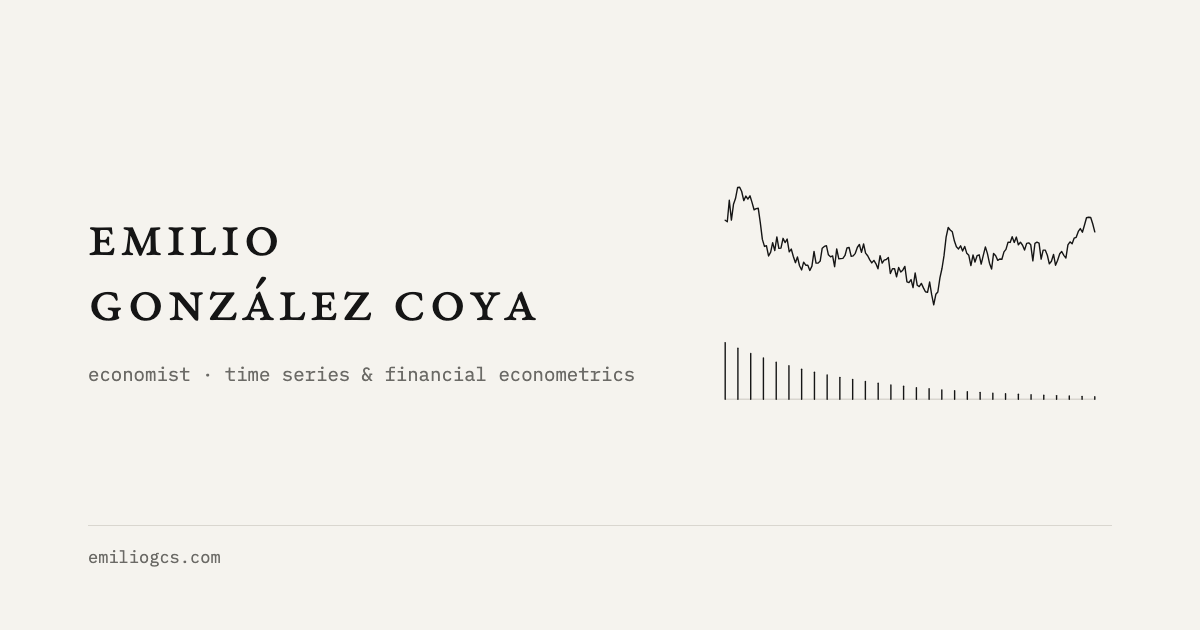
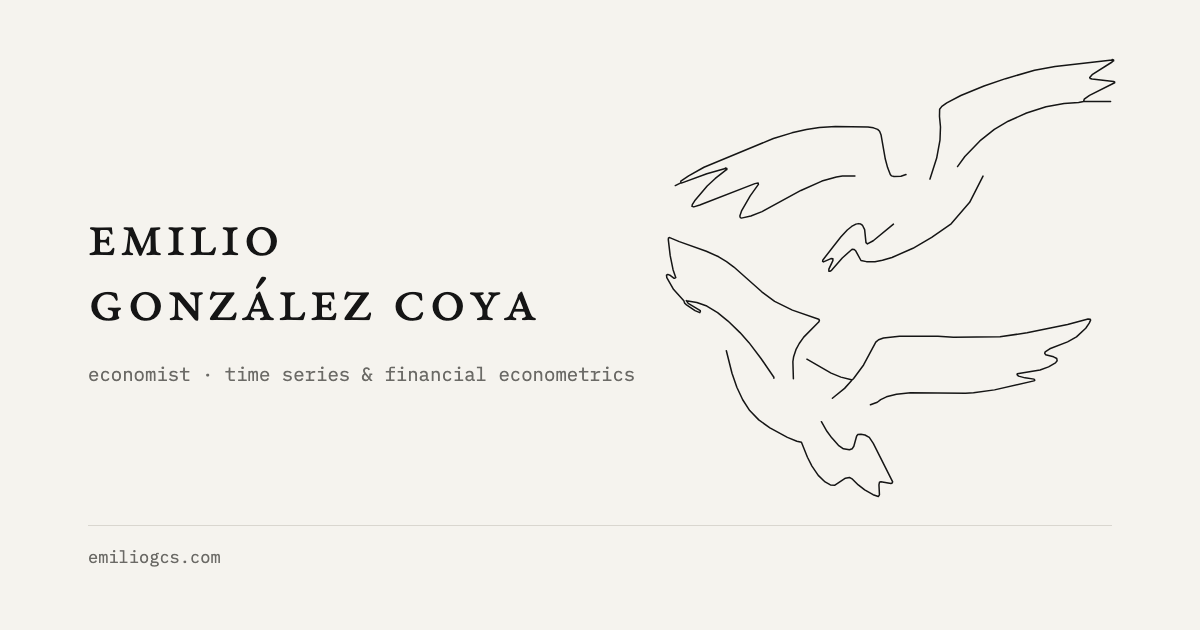
Full name for search; birds in the social image
The page title and search description now carry the full name, Emilio
González Coya Sandoval, and the structured data lists it (with and
without accents, and as González-Coya) as other names for the same
person. The page header stays "Emilio González Coya".

The social preview (og.png) shows the two birds instead of the AR(1)
figure; scripts/birds.py now writes them into scripts/og.html too.

diff --git a/scripts/og.html b/scripts/og.html
@@ -1,6 +1,6 @@
 <!DOCTYPE html>
-<!-- Template for assets/og.png (1200×630). plates.mjs fills the figure;
-     render with:  see README.md, "Social image". -->
+<!-- Template for assets/og.png (1200×630). scripts/birds.py fills in the
+     birds; render with:  see README.md, "Social image". -->
 <html lang="en">
 <head>
   <meta charset="utf-8">
@@ -19,10 +19,9 @@
     .role { margin: 28px 0 0; white-space: nowrap; font: 19px/1.5 "IBM Plex Mono", monospace; color: #6B6A66; }
     .url { position: absolute; left: 88px; bottom: 64px; margin: 0; font: 17px/1 "IBM Plex Mono", monospace; color: #6B6A66; }
     .rule { position: absolute; left: 88px; right: 88px; bottom: 104px; border-top: 1px solid #D9D6CF; }
-    .fig { position: absolute; right: 80px; top: 162px; width: 420px; }
-    .fig svg path { stroke-width: 1.4; }
-    .fig svg { display: block; width: 100%; height: auto; }
-    .base { stroke: #D9D6CF; }
+    .fig { position: absolute; right: 84px; top: 58px; height: 440px; }
+    .fig svg { display: block; height: 100%; width: auto; overflow: visible; }
+    .fig svg path { stroke-width: 1.5; }
   </style>
 </head>
 <body>
@@ -31,44 +30,12 @@
     <p class="role">economist · time series &amp; financial econometrics</p>
   </div>
   <div class="fig">
-    <!-- plate:fgls -->
-    <svg class="plate-svg" viewBox="0 0 400 250" role="img" aria-label="A persistent AR(1) time series drawn as one hairline across the top, above a row of short vertical lines, its autocorrelations, decaying geometrically from left to right." fill="none" stroke="currentColor" stroke-width="1" stroke-linecap="round" stroke-linejoin="round">
-      <path class="base" d="M24 226H376" vector-effect="non-scaling-stroke"/>
-      <path d="M24 55.5 L26 56.9 27.9 36.4 29.9 55.4 31.9 40.3 33.8 34.8 35.8 24.3 37.8 24 39.7 28.1 41.7 36.8 43.7 32.4 45.6 35.3 47.6 32.2 49.6 38.7 51.5 45.5 53.5 44.4 55.5 44.1 57.4 57.5 59.4 73.7 61.4 80.4 63.3 79.8 65.3 89.5 67.3 85.8 69.2 76.8 71.2 84.4 73.2 71.4 75.1 82.3 77.1 82 79.1 72.7 81 76.7 83 73.4 85 85.6 86.9 82.9 88.9 90 90.9 95.9 92.8 90.4 94.8 98.8 96.8 102.8 98.7 95.4 100.7 98.3 102.7 98.3 104.6 103.3 106.6 99.2 108.6 85.2 110.5 96.3 112.5 96.3 114.5 94.2 116.4 82.1 118.4 80.4 120.4 79.7 122.3 88.4 124.3 90.3 126.3 89.4 128.2 99.7 130.2 82.7 132.2 92.3 134.1 92 136.1 91.8 138.1 89 140 81.8 142 81.4 144 89.9 145.9 89.4 147.9 87 149.9 81.2 151.8 78.6 153.8 86.1 155.8 78.1 157.7 86.8 159.7 89.3 161.7 93.2 163.6 96.1 165.6 93.7 167.6 97 169.5 101.7 171.5 89.2 173.5 96.3 175.4 93.4 177.4 92.9 179.4 91 181.3 106.2 183.3 101.7 185.3 101.7 187.2 109.3 189.2 100.5 191.2 104.8 193.1 103 195.1 99.4 197.1 114.2 199 114.9 201 112 202.9 119.6 204.9 105.7 206.9 117.4 208.8 118.7 210.8 115.6 212.8 119.9 214.7 123.6 216.7 124.1 218.7 114.3 220.6 126.1 222.6 136 224.6 126 226.5 123.8 228.5 110.3 230.5 101.2 232.4 89.2 234.4 71.5 236.4 62.4 238.3 64.8 240.3 66.5 242.3 75.3 244.2 80.8 246.2 82.8 248.2 79.8 250.1 84.8 252.1 80.4 254.1 87 256 88.9 258 98.7 260 88.6 261.9 95.3 263.9 89.2 265.9 88.4 267.8 97.3 269.8 88.9 271.8 80.8 273.7 87 275.7 96.4 277.7 102 279.6 87 281.6 89.3 283.6 93.7 285.5 92.4 287.5 92.6 289.5 85.6 291.4 83.2 293.4 76.3 295.4 76.6 297.3 71.2 299.3 76.6 301.3 71.5 303.2 78.8 305.2 76.4 307.2 79.3 309.1 83.8 311.1 77.5 313.1 77 315 78.9 317 94.1 319 77.4 320.9 76.4 322.9 77.3 324.9 92.5 326.8 83.9 328.8 83.9 330.8 88.8 332.7 97 334.7 94.5 336.7 88 338.6 98.3 340.6 93.6 342.6 87.4 344.5 85.2 346.5 88.9 348.5 91.4 350.4 78.9 352.4 76.1 354.4 77.8 356.3 72.6 358.3 71.7 360.3 66.1 362.2 63.4 364.2 66.9 366.2 60 368.1 53.1 370.1 52.6 372.1 52.9 374 58.8 376 66.5" vector-effect="non-scaling-stroke"/>
-      <g class="seq">
-        <path d="M24 226V172" vector-effect="non-scaling-stroke"/>
-        <path d="M36.1 226V177.4" vector-effect="non-scaling-stroke"/>
-        <path d="M48.3 226V182.3" vector-effect="non-scaling-stroke"/>
-        <path d="M60.4 226V186.6" vector-effect="non-scaling-stroke"/>
-        <path d="M72.6 226V190.6" vector-effect="non-scaling-stroke"/>
-        <path d="M84.7 226V194.1" vector-effect="non-scaling-stroke"/>
-        <path d="M96.8 226V197.3" vector-effect="non-scaling-stroke"/>
-        <path d="M109 226V200.2" vector-effect="non-scaling-stroke"/>
-        <path d="M121.1 226V202.8" vector-effect="non-scaling-stroke"/>
-        <path d="M133.2 226V205.1" vector-effect="non-scaling-stroke"/>
-        <path d="M145.4 226V207.2" vector-effect="non-scaling-stroke"/>
-        <path d="M157.5 226V209.1" vector-effect="non-scaling-stroke"/>
-        <path d="M169.7 226V210.7" vector-effect="non-scaling-stroke"/>
-        <path d="M181.8 226V212.3" vector-effect="non-scaling-stroke"/>
-        <path d="M193.9 226V213.6" vector-effect="non-scaling-stroke"/>
-        <path d="M206.1 226V214.9" vector-effect="non-scaling-stroke"/>
-        <path d="M218.2 226V216" vector-effect="non-scaling-stroke"/>
-        <path d="M230.3 226V217" vector-effect="non-scaling-stroke"/>
-        <path d="M242.5 226V217.9" vector-effect="non-scaling-stroke"/>
-        <path d="M254.6 226V218.7" vector-effect="non-scaling-stroke"/>
-        <path d="M266.8 226V219.4" vector-effect="non-scaling-stroke"/>
-        <path d="M278.9 226V220.1" vector-effect="non-scaling-stroke"/>
-        <path d="M291 226V220.7" vector-effect="non-scaling-stroke"/>
-        <path d="M303.2 226V221.2" vector-effect="non-scaling-stroke"/>
-        <path d="M315.3 226V221.7" vector-effect="non-scaling-stroke"/>
-        <path d="M327.4 226V222.1" vector-effect="non-scaling-stroke"/>
-        <path d="M339.6 226V222.5" vector-effect="non-scaling-stroke"/>
-        <path d="M351.7 226V222.9" vector-effect="non-scaling-stroke"/>
-        <path d="M363.9 226V223.2" vector-effect="non-scaling-stroke"/>
-        <path d="M376 226V223.5" vector-effect="non-scaling-stroke"/>
-      </g>
+    <!-- birds -->
+    <svg class="flock" viewBox="0 0 901.7 879.4" aria-hidden="true" focusable="false" fill="none" stroke="currentColor" stroke-width="1" stroke-linecap="round" stroke-linejoin="round">
+      <g transform="translate(17.6 0)"><g class="bird bird-upper" data-bird="upper" data-heading="140" data-flap="518 245 515 0.12 0"><path class="wing" d="M876 4 L876 3 879 3.9 879 6 877 6 M876 4 L762 17 721 24.6 663 41.3 620 56 573.7 75 545.6 89.7 535.7 96.7 531.3 102.3 531 117 533 138 532 164 525.4 200 512 242 M877 6 L876 8 836.1 33.3 831.3 39 832.4 41 836 42.1 879 47 881.1 47.9 881.1 49.4 830.9 74.7 820.3 82.3 819 87 M819 87 L809 89 780 91 744 97.6 705 110 668.3 126.3 640.6 142.7 611.7 165.7 581.7 196.9 567 217 M819 87 L873 87 M103 221 L103 220 106 220.9 106 223 104 224 M103 221 L66 231.3 15 250 M104 224 L82.9 240.7 66.7 255.7 41.7 285.4 36.9 293 36.4 296.6 40 297.6 52 293.7 162 251.1 168.6 249.9 169.1 252.7 152.7 275.6 135.7 305 132 316 132.9 319.1 135 320 154 315.7 176.3 307 254 264.7 296 246 325 237.7 337 236 362 236 M464 233 L454 236.4 440 237 435.3 235.6 432.7 232.7 427.3 219 422.7 202 414.3 154 411.3 146.3 407.4 142.7 399 139.6 388 138 323 137 291 139 265 142.7 236 149.6 199 161 60.3 218.3 29.6 235.7 14 246 14 248 M618 236 L591.3 288.4 554.3 331.3 515.4 358.3 478 380.3 436 398.7 417 404.4 402 407 385 407 374.1 404.7 363.3 385.1 360.7 382.7 356.3 382.3 336.7 399.7 315.3 424.3 312.7 426.1 309.9 426.1 309.9 422 317.9 405 318 401.4 314 400.9 299.1 407.6 297.4 406.6 297.9 403.6 333.7 357.9 346.7 343.7 355.4 336.7 364 332 369 331 373.7 331.9 377.3 334.7 381.4 343 384.1 369 387 371.6 398.6 365.3 439 332 M13 250 L3 255" vector-effect="non-scaling-stroke"/></g></g>
+      <g transform="translate(0 355.9)"><g class="bird bird-middle" data-bird="middle" data-heading="62" data-flap="340.6 254.1 510 0.13 0"><path class="wing" d="M21.6 83.1 L16.1 67.1 10.4 39.1 6.6 7.1 7 3.7 9.4 3 28.6 11.1 82.6 30.3 107.3 41.4 123 50.9 137.7 61.9 193.4 111.4 219.1 130.4 254.6 148 307.3 166.3 308.6 168.3 307.7 171.3 277.3 202 268.3 214.7 261.7 227.1 257.1 241.1 255.6 251.1 256.6 285.1 M19.6 84.1 L17.6 84.1 11 78.9 5.6 76.6 3 78.3 3.6 83.1 17.3 107 37.6 129.1 M37.6 129.1 L39.4 134.3 43 137.4 60 149 69.6 153.1 M42.6 129.1 L63.6 132.7 83.6 139.9 105.1 152.9 125.9 169.9 149.9 192.9 167.9 213 191.9 244.7 217.6 282.1 217.6 284.1 M42.6 129.1 L46.4 134.4 70.6 149.1 70.6 151.1 M122.6 229.1 L133.9 274.1 143.6 302.1 155.3 327.1 169.3 348.7 187.4 367.4 209.7 383.4 244.6 402.4 263.6 410 272.7 412.1 284.7 442.1 293.7 459.7 306.3 478.3 320 491.4 330.6 497.3 339.6 498 360.6 483.9 368.6 482.4 374.7 485.9 386.3 497.4 399.1 507.4 415.9 516.9 426.3 520.6 428.6 517.1 427.6 497.1 428.6 492.1 431.6 491.1 451.6 494.4 454.1 493.6 455 491.1 416.3 414.4 408.3 402.4 399.6 397.6 391.6 396.1 385.1 396.7 382.9 400.1 377.4 420.1 374.3 425 368.6 427.1 356.6 425.1 346.6 418.1 333.3 403.3 323.6 390.1 312.6 371.1 M283.6 246.1 L332 273.9 351.6 281.9 372.6 287.1 M372.6 287.1 L374.6 287.1 377 284.7 396.9 257.6 421.3 212 426.9 207.1 436.6 203.7 468.6 200.1 545.6 200.1 576.6 202.1 669.6 201.1 723.6 193.4 804.6 176.6 845.6 165.7 850 166 850.6 168.1 847.9 174.1 840.9 184.3 822.4 201.4 804.6 211.4 769 225.3 759.9 231.4 758.9 234.3 760.7 237 776.6 241.3 783 244.7 783.7 249.1 780.4 253.4 766.6 261.4 749.6 267.6 704.1 275.1 703.7 277.1 706.6 279.9 719.6 283.4 737.6 285.9 739.1 287.9 737.4 289.4 658.6 307.4 616.6 313.1 600.6 314.1 490.6 313.1 462.6 316 442.6 321.3 431.1 326.9 424.3 332.1 410.6 337.1 M372.6 287.1 L372.6 289.1 358.9 304.4 334.6 324.1" vector-effect="non-scaling-stroke"/></g></g>
     </svg>
-    <!-- /plate:fgls -->
+    <!-- /birds -->
   </div>
   <div class="rule"></div>
   <p class="url">emiliogcs.com</p>

diff --git a/index.html b/index.html
@@ -3,8 +3,8 @@
 <head>
   <meta charset="utf-8">
   <meta name="viewport" content="width=device-width, initial-scale=1">
-  <title>Emilio González Coya — Economist</title>
-  <meta name="description" content="Emilio González Coya is an economist working on time series and financial econometrics: feasible GLS estimation and inference when the form of the errors is unknown. PhD, Boston University.">
+  <title>Emilio González Coya Sandoval — Economist</title>
+  <meta name="description" content="Emilio González Coya Sandoval is an economist working on time series and financial econometrics: machine learning and non-parametric methods for efficient estimation and robust inference. PhD, Boston University.">
   <link rel="canonical" href="https://emiliogcs.com/">
   <meta name="color-scheme" content="light dark">
   <meta name="theme-color" content="#F5F3EE" media="(prefers-color-scheme: light)">
@@ -18,7 +18,7 @@
   <meta property="og:image" content="https://emiliogcs.com/assets/og.png">
   <meta property="og:image:width" content="1200">
   <meta property="og:image:height" content="630">
-  <meta property="og:image:alt" content="Emilio González Coya, economist: time series and financial econometrics. A line drawing of an AR(1) path above its decaying autocorrelations.">
+  <meta property="og:image:alt" content="Emilio González Coya, economist: time series and financial econometrics. A line drawing of two birds in flight.">
   <meta property="og:locale" content="en_US">
   <meta name="twitter:card" content="summary_large_image">
   <meta name="twitter:title" content="Emilio González Coya — Economist">
@@ -39,6 +39,7 @@
         "@type": "Person",
         "@id": "https://emiliogcs.com/#person",
         "name": "Emilio González Coya",
+        "alternateName": ["Emilio González Coya Sandoval", "Emilio Gonzalez Coya Sandoval", "Emilio Gonzalez Coya", "Emilio González-Coya"],
         "givenName": "Emilio",
         "familyName": "González Coya",
         "jobTitle": "Economist",

diff --git a/scripts/birds.py b/scripts/birds.py
@@ -9,7 +9,8 @@ every stroke is assigned to a bird by its nearest anchor points. Only the
 upper and the middle bird are kept (the small shape at the top and the
 bottom bird are dropped). Each bird is a <g> with one path, inside one
 <svg class="flock">, written between <!-- birds --> and <!-- /birds --> in
-index.html. site.js flies them, and copies of the middle one.
+index.html (site.js flies them, and copies of the middle one) and in
+scripts/og.html, the template for the social image.
 
 The source PNG is not part of the site. Run this once and commit the page.
 """
@@ -21,7 +22,7 @@ import numpy as np
 from PIL import Image
 
 ROOT = Path(__file__).resolve().parent.parent
-TARGETS = ["index.html"]
+TARGETS = ["index.html", "scripts/og.html"]
 
 TOP = [(246, 12), (284, 86), (349, 83), (389, 46), (482, 80), (116, 47), (203, 92), (311, 133), (396, 145), (439, 96)]
 UPPER_WINGS = [(923, 124), (809, 137), (710, 161), (621, 195), (580, 258), (559, 362), (926, 167), (866, 207), (920, 207), (614, 337), (688, 263), (791, 218), (511, 353), (461, 274), (370, 257), (283, 270), (107, 338), (61, 368), (150, 341), (409, 356), (301, 385), (223, 427), (200, 396), (99, 414), (130, 361)]

diff --git a/README.md b/README.md
@@ -132,8 +132,9 @@ or with reduced motion, the drawing stays still in the intro.
 
 ## Social image
 
-`assets/og.png` is rendered from `scripts/og.html` (it carries plate 01). After
-re-running the plates, regenerate it with any headless Chrome:
+`assets/og.png` is rendered from `scripts/og.html`, which carries the two
+birds as drawn (`scripts/birds.py` writes them there too). After changing
+the template or the birds, regenerate it with any headless Chrome:
 
 ```sh
 "/Applications/Google Chrome.app/Contents/MacOS/Google Chrome" --headless=new \
